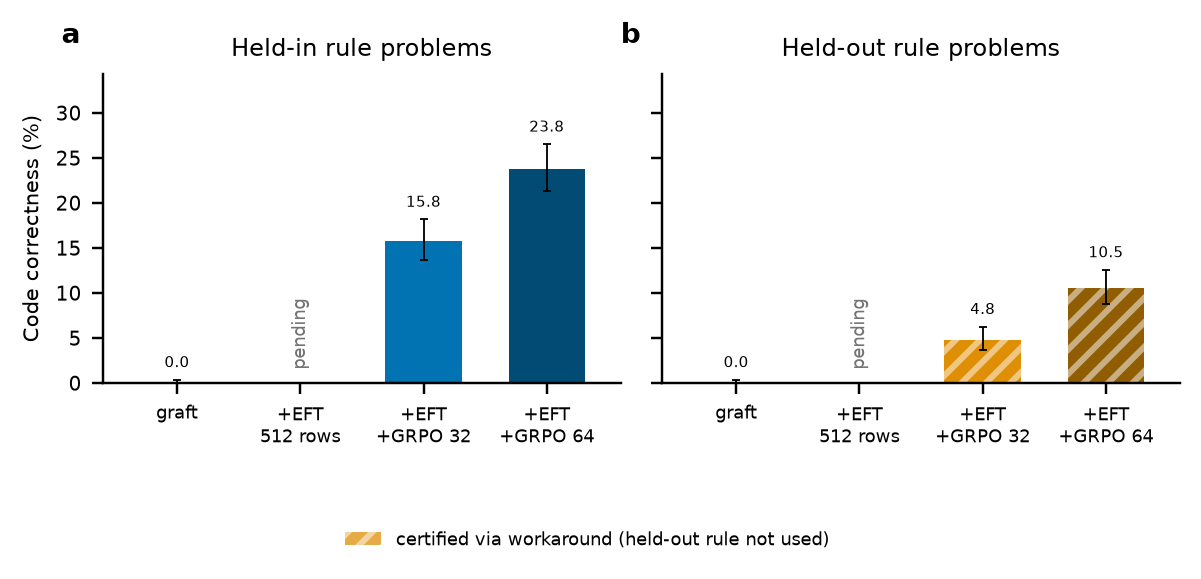
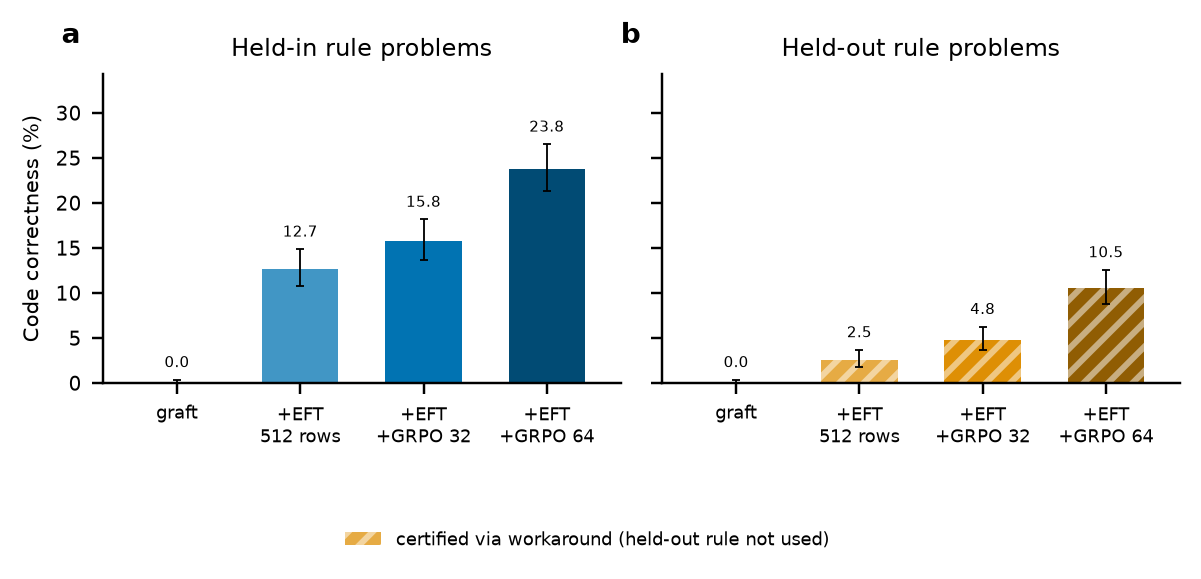
runbv2_ladder: LADDER COMPLETE 4/4 — condition-2 replicate one-shot 130/1024 held-in, 26/1024 held-out folded in (EFT alone; GRPO ~doubles one-shot correctness while EFT alone carries Suite-A expression); RESULTS tables/reading/incidents/cost; figures; CAMPAIGN_STATUS

Changed region(s): [[0.2157, 0.4352, 0.3081, 0.6839], [0.6778, 0.5285, 0.7702, 0.6839]]

diff --git a/experiments/python4/runbv2_ladder/RESULTS.md b/experiments/python4/runbv2_ladder/RESULTS.md
@@ -57,7 +57,7 @@ Reading:
 * Truncation at 16,384 is 3.6–9.6% here (Suite-A prompts elicit short thoughts, p50 ≈ 1.7k
   chars) versus ~80% for the same checkpoints on the one-shot coding problems (below).
 
-## One-shot coding success (eval_v3, n = 1,024/split, 16,384 budget, thinking ON) — 2026-09-11
+## One-shot coding success (eval_v3, n = 1,024/split, 16,384 budget, thinking ON) — 2026-09-11/12
 
 Harness blocks byte-identical to the banked graft cell (`config_g4_31b_runbv2.yaml` vs
 `config_g4_31b_grafts.yaml`, only `runtime.max_hours` differs); greedy; Boa `p4_boa` grader; runs
@@ -69,7 +69,7 @@ firing (assemble_ladder.py). Bare-graft numbers are the banked cell `20260830T18
 | cell | held-in certified (95% CI) | of which workaround | held-out certified (95% CI) | of which workaround | truncated rows (held-in / held-out) |
 |---|---|---|---|---|---|
 | bare graft | **0/1024** (0–0.4%) | 0 | **0/1024** (0–0.4%) | 0 | 43 / 92 |
-| +512 EFT (step 0) | — no artifact — | | | | |
+| +512 EFT (step 0, **replicate** adapter) | **130/1024** (10.8–14.9%) | 41 | **26/1024** (1.7–3.7%) | 26 | 719 / 848 |
 | +EFT +GRPO step 32 | **162/1024** (13.7–18.2%) | 32 | **49/1024** (3.6–6.3%) | 49 | 669 / 755 |
 | +EFT +GRPO step 64 | **244/1024** (21.3–26.5%) | 46 | **108/1024** (8.8–12.6%) | 108 | 499 / 653 |
 
@@ -86,6 +86,7 @@ certifies; reported separately, never folded into `certified`.
 | cell | split | certified = terminated + unfinished-draft | unfinished rows (with any draft) | rescued |
 |---|---|---|---|---|
 | bare graft | held-in / held-out | 0 = 0 + 0 / 0 = 0 + 0 | 43 (5) / 92 (12) | 0 / 0 |
+| +512 EFT (replicate) | held-in / held-out | 130 = 107 + 23 / 26 = 18 + 8 | 719 (90) / 848 (45) | 0 / 0 |
 | step 32 | held-in / held-out | 162 = 106 + 56 / 49 = 30 + 19 | 669 (154) / 755 (79) | 0 / 0 |
 | step 64 | held-in / held-out | 244 = 197 + 47 / 108 = 77 + 31 | 499 (135) / 653 (106) | 5 / 2 |
 
@@ -94,6 +95,7 @@ certifies; reported separately, never folded into `certified`.
 | cell | truncated | looping tails (dup. 80-gram share > 0.3) | stopped tokens p50 | self-check / 1k tok | wait·actually·hmm / 1k tok | rows mentioning Python 3 | rows saying "fictional" / "not real" | truncated rows already holding a `def solution` (median position) |
 |---|---|---|---|---|---|---|---|---|
 | bare graft | 135 (7%) | 103 | 4,846 | 0.52 | 2.52 | 1,500 | 938 | 19/135 (13%) |
+| +512 EFT (replicate) | 1,567 (77%) | 1151 | 4,252 | 1.11 | 5.70 | 176 | 181 | 748/1,567 (7%) |
 | step 32 | 1,424 (70%) | 1069 | 5,288 | 2.96 | 8.09 | 332 | 453 | 983/1,424 (6%) |
 | step 64 | 1,152 (56%) | 816 | 5,550 | 1.93 | 6.14 | 385 | 420 | 822/1,152 (7%) |
 
@@ -114,12 +116,16 @@ thoughts doubling turn-1 reasoning length. The bare graft's own cap-hits are als
 
 ### Reading
 
-* **The EFT-warm-started RL line certifies in the one-shot frame** — 0 → 162/1024 → 244/1024
-  held-in — where run-4's cold GRPO step-32 LoRA on the same graft read 0/2,048 (CAMPAIGN_STATUS
-  finding #6, "frame-gating survives RL"). Whether the transfer comes from the 512 one-shot-style
-  EFT rows, from GRPO, or from their combination is exactly what the missing condition 2 would
-  separate; without it the step-32 → step-64 delta is the only within-run RL read
-  (162 → 244 held-in, 49 → 108 held-out).
+* **The EFT-warm-started RL line certifies in the one-shot frame** — 0 → 130 → 162 → 244 /1024
+  held-in (graft → +512 EFT → +GRPO 32 → +GRPO 64) — where run-4's cold GRPO step-32 LoRA on the
+  same graft read 0/2,048 (CAMPAIGN_STATUS finding #6, "frame-gating survives RL"). **Condition 2
+  (the replicate step-0 adapter) splits the credit:** the 512 one-shot-style EFT rows alone take
+  held-in from 0 to 12.7% and held-out from 0 to 2.5%; GRPO then roughly doubles both
+  (12.7 → 15.8 → 23.8% held-in, 2.5 → 4.8 → 10.5% held-out). This is the opposite ordering from
+  Suite-A, where EFT alone already installs ~72% held-in expression and GRPO adds 1–4 points:
+  RL moved *code correctness*, EFT moved *dialect expression*. The replicate is the same recipe
+  and rows as the lost warm start with fresh replay thoughts (510 trained rows, 30 optimizer
+  steps), not the bit-identical adapter GRPO continued from.
 * **Held-out certifications are all workarounds** (108/108 at step 64): Python-3-compatible
   solutions that pass Boa without any held-out dialect feature, matching Suite-A's held-out
   profile (matmul detector only; uppercase/grouped 0/128). Held-in certifications are ~80% genuine
@@ -138,6 +144,13 @@ thoughts doubling turn-1 reasoning length. The bare graft's own cap-hits are als
   (2,048 samples + 2,048 graded rows per cell). Rows live in the checkout (`eval_v3/runs/`) and on
   GCS `gs://arcadia-scimt-checkpoints/python4-gemma4-31b/eval_v3_logs_backup/runs/<run>/`; re-upload
   to `arcadia-impact/python4-eval-v3-logs` once billing is fixed.
+* **Condition 2 replicate (2026-09-11).** Re-trained on a fresh 1×H200 pod from the exact Run B-v2
+  recipe (`pod/run_eft512rep.sh`): mixture rebuilt and sha-gated against the original, 49/51 dolci
+  replay thoughts re-sampled from the served graft (2 dropped, within the ≤3 gate → 510 rows,
+  30 optimizer steps instead of 32), `--thought-mode nothink --seq-len 12288 --epochs 2`. Two
+  provisioning fixes were needed (`75d23750`: episode-sha check opt-out, corpus prebuilt on the
+  devbox because the pod is tokenless; `ac847b0c`: `ninja` for flashinfer's JIT, without which the
+  LoRA-serving vLLM engine died at the Suite-A step). Provenance in `results/eft512rep/`.
 * First one-shot launch (16 h job limit) discarded after smoke showed ~80% cap-hits ⇒ ~21 h/cell;
   relaunched with `max_hours: 30`.
 
@@ -145,3 +158,4 @@ thoughts doubling turn-1 reasoning length. The bare graft's own cap-hits are als
 
 Suite-A pod ≈ $15 (3.3 h H200) · discarded first launch ≈ $10 · one-shot cells ≈ $85 (s64, 18.5 h)
 + ≈ $89 (s32) at $4.59/h ⇒ **≈ $199 total**.
+Condition-2 replicate: training + Suite-A pod 4.1 h ≈ $19 · one-shot cell 17.1 h ≈ $78 ⇒ **≈ $97**; ladder total **≈ $296**.

diff --git a/experiments/python4/CAMPAIGN_STATUS.md b/experiments/python4/CAMPAIGN_STATUS.md
@@ -9,7 +9,7 @@
 
 **Addendum 2026-09-11 (this doc is otherwise frozen at 2026-09-04; later work is indexed here, not folded in):**
 - **Run-5 → Run B-v2 completed** (`eft_budget/`, run `20260905T-runBv2-g4-31b-prop-E`): one r=64 LoRA over the **bare** prop graft, EFT-initialised on 512 held-in rows (E convention) then GRPO-continued in the squashed env to **step 64** (curves + trainer ckpts 8–64 + `sampler` (= ckpt-64) on GCS; PEFT-only serving mirrors `checkpoint-32-peft` / `sampler-peft`). The GCS `sampler/_UPLOAD_COMPLETE.json` note reads as if the GRPO LoRA stacks on an EFT adapter — it does not; serve any checkpoint as **graft + that one adapter** (`runbv2_ladder/SPEC.md`).
-- **Run B-v2 ladder evals, thinking ON** (`runbv2_ladder/`, commissioned 2026-09-10): bare graft / +512 EFT (step 0) / GRPO s32 / GRPO s64 × {one-shot `eval_v3` n=1,024/split incl. workaround, Suite-A rule expression 8×128}. Suite-A **banked** 2026-09-10 (held-in 4%→73%→76%; held-out 2%→20%→23% is the `matrix_multiplication` detector only). One-shot s32/s64 cells **banked** 2026-09-11 (`eval_v3/results_g4_31b_runbv2_{s32,s64}.json`; `runbv2_ladder/RESULTS.md`): held-in 0 → 162 → 244 /1,024, held-out 0 → 49 → 108 /1,024 (held-out certifications all workarounds); 70% / 56% of rows hit the 16k cap, mostly verification loops. **HF uploads are blocked** (org 403 "setup automatic credit recharge"): rows are in the checkout + GCS `python4-gemma4-31b/eval_v3_logs_backup/` pending re-upload. **Condition 2** (the step-0 EFT adapter) was lost with its pod and **re-trained as a replicate** on 2026-09-11 (Jonathan's call; exact recipe, fresh replay thoughts; GCS `eft/20260911T-runBv2-eft512-replicate/adapter`): Suite-A 368/512 held-in, 42/512 held-out at step 0 — the held-in expression jump is EFT alone, GRPO adds ~1–4 points; its one-shot cell lands 2026-09-12.
+- **Run B-v2 ladder evals, thinking ON** (`runbv2_ladder/`, commissioned 2026-09-10): bare graft / +512 EFT (step 0) / GRPO s32 / GRPO s64 × {one-shot `eval_v3` n=1,024/split incl. workaround, Suite-A rule expression 8×128}. Suite-A **banked** 2026-09-10 (held-in 4%→73%→76%; held-out 2%→20%→23% is the `matrix_multiplication` detector only). One-shot s32/s64 cells **banked** 2026-09-11 (`eval_v3/results_g4_31b_runbv2_{s32,s64}.json`; `runbv2_ladder/RESULTS.md`): held-in 0 → 162 → 244 /1,024, held-out 0 → 49 → 108 /1,024 (held-out certifications all workarounds); 70% / 56% of rows hit the 16k cap, mostly verification loops. **HF uploads are blocked** (org 403 "setup automatic credit recharge"): rows are in the checkout + GCS `python4-gemma4-31b/eval_v3_logs_backup/` pending re-upload. **Condition 2** (the step-0 EFT adapter) was lost with its pod and **re-trained as a replicate** on 2026-09-11 (Jonathan's call; exact recipe, fresh replay thoughts; GCS `eft/20260911T-runBv2-eft512-replicate/adapter`): Suite-A 368/512 held-in, 42/512 held-out at step 0 — the held-in expression jump is EFT alone, GRPO adds ~1–4 points; one-shot 130/1,024 held-in, 26/1,024 held-out (EFT alone), so GRPO roughly doubles one-shot correctness (→ 244 / 108) while EFT alone carries the Suite-A expression. **Ladder complete 4/4** (`runbv2_ladder/RESULTS.md`).
 - `eft_12b_native/suite_a_driver.py` now accepts `--enable-thinking` (thought split off, answer graded) — the shared Suite-A path for GLM-110B too.
 - Weights index regenerated 2026-09-11 (`WEIGHTS_INDEX.md`); the run-5 / eft_budget / eft12b branches are merged into this branch.
 

diff --git a/experiments/python4/runbv2_ladder/results/ladder_table.md b/experiments/python4/runbv2_ladder/results/ladder_table.md
@@ -1,6 +1,6 @@
 | cell | one-shot held-in certified (workaround) [terminated / unfinished-draft / +rescued] | one-shot held-out certified (workaround) [terminated / unfinished-draft / +rescued] | Suite-A held-in | Suite-A held-out |
 |---|---|---|---|---|
 | bare graft | 0/1024 (0 wk) [0 / 0 / +0] | 0/1024 (0 wk) [0 / 0 / +0] | 21/512 | 10/512 |
-| +512 EFT (step 0) | pending | pending | 368/512 | 42/512 |
+| +512 EFT (step 0) | 130/1024 (41 wk) [107 / 23 / +0] | 26/1024 (26 wk) [18 / 8 / +0] | 368/512 | 42/512 |
 | +EFT +GRPO step 32 | 162/1024 (32 wk) [106 / 56 / +0] | 49/1024 (49 wk) [30 / 19 / +0] | 373/512 | 100/512 |
 | +EFT +GRPO step 64 | 244/1024 (46 wk) [197 / 47 / +5] | 108/1024 (108 wk) [77 / 31 / +2] | 387/512 | 118/512 |
